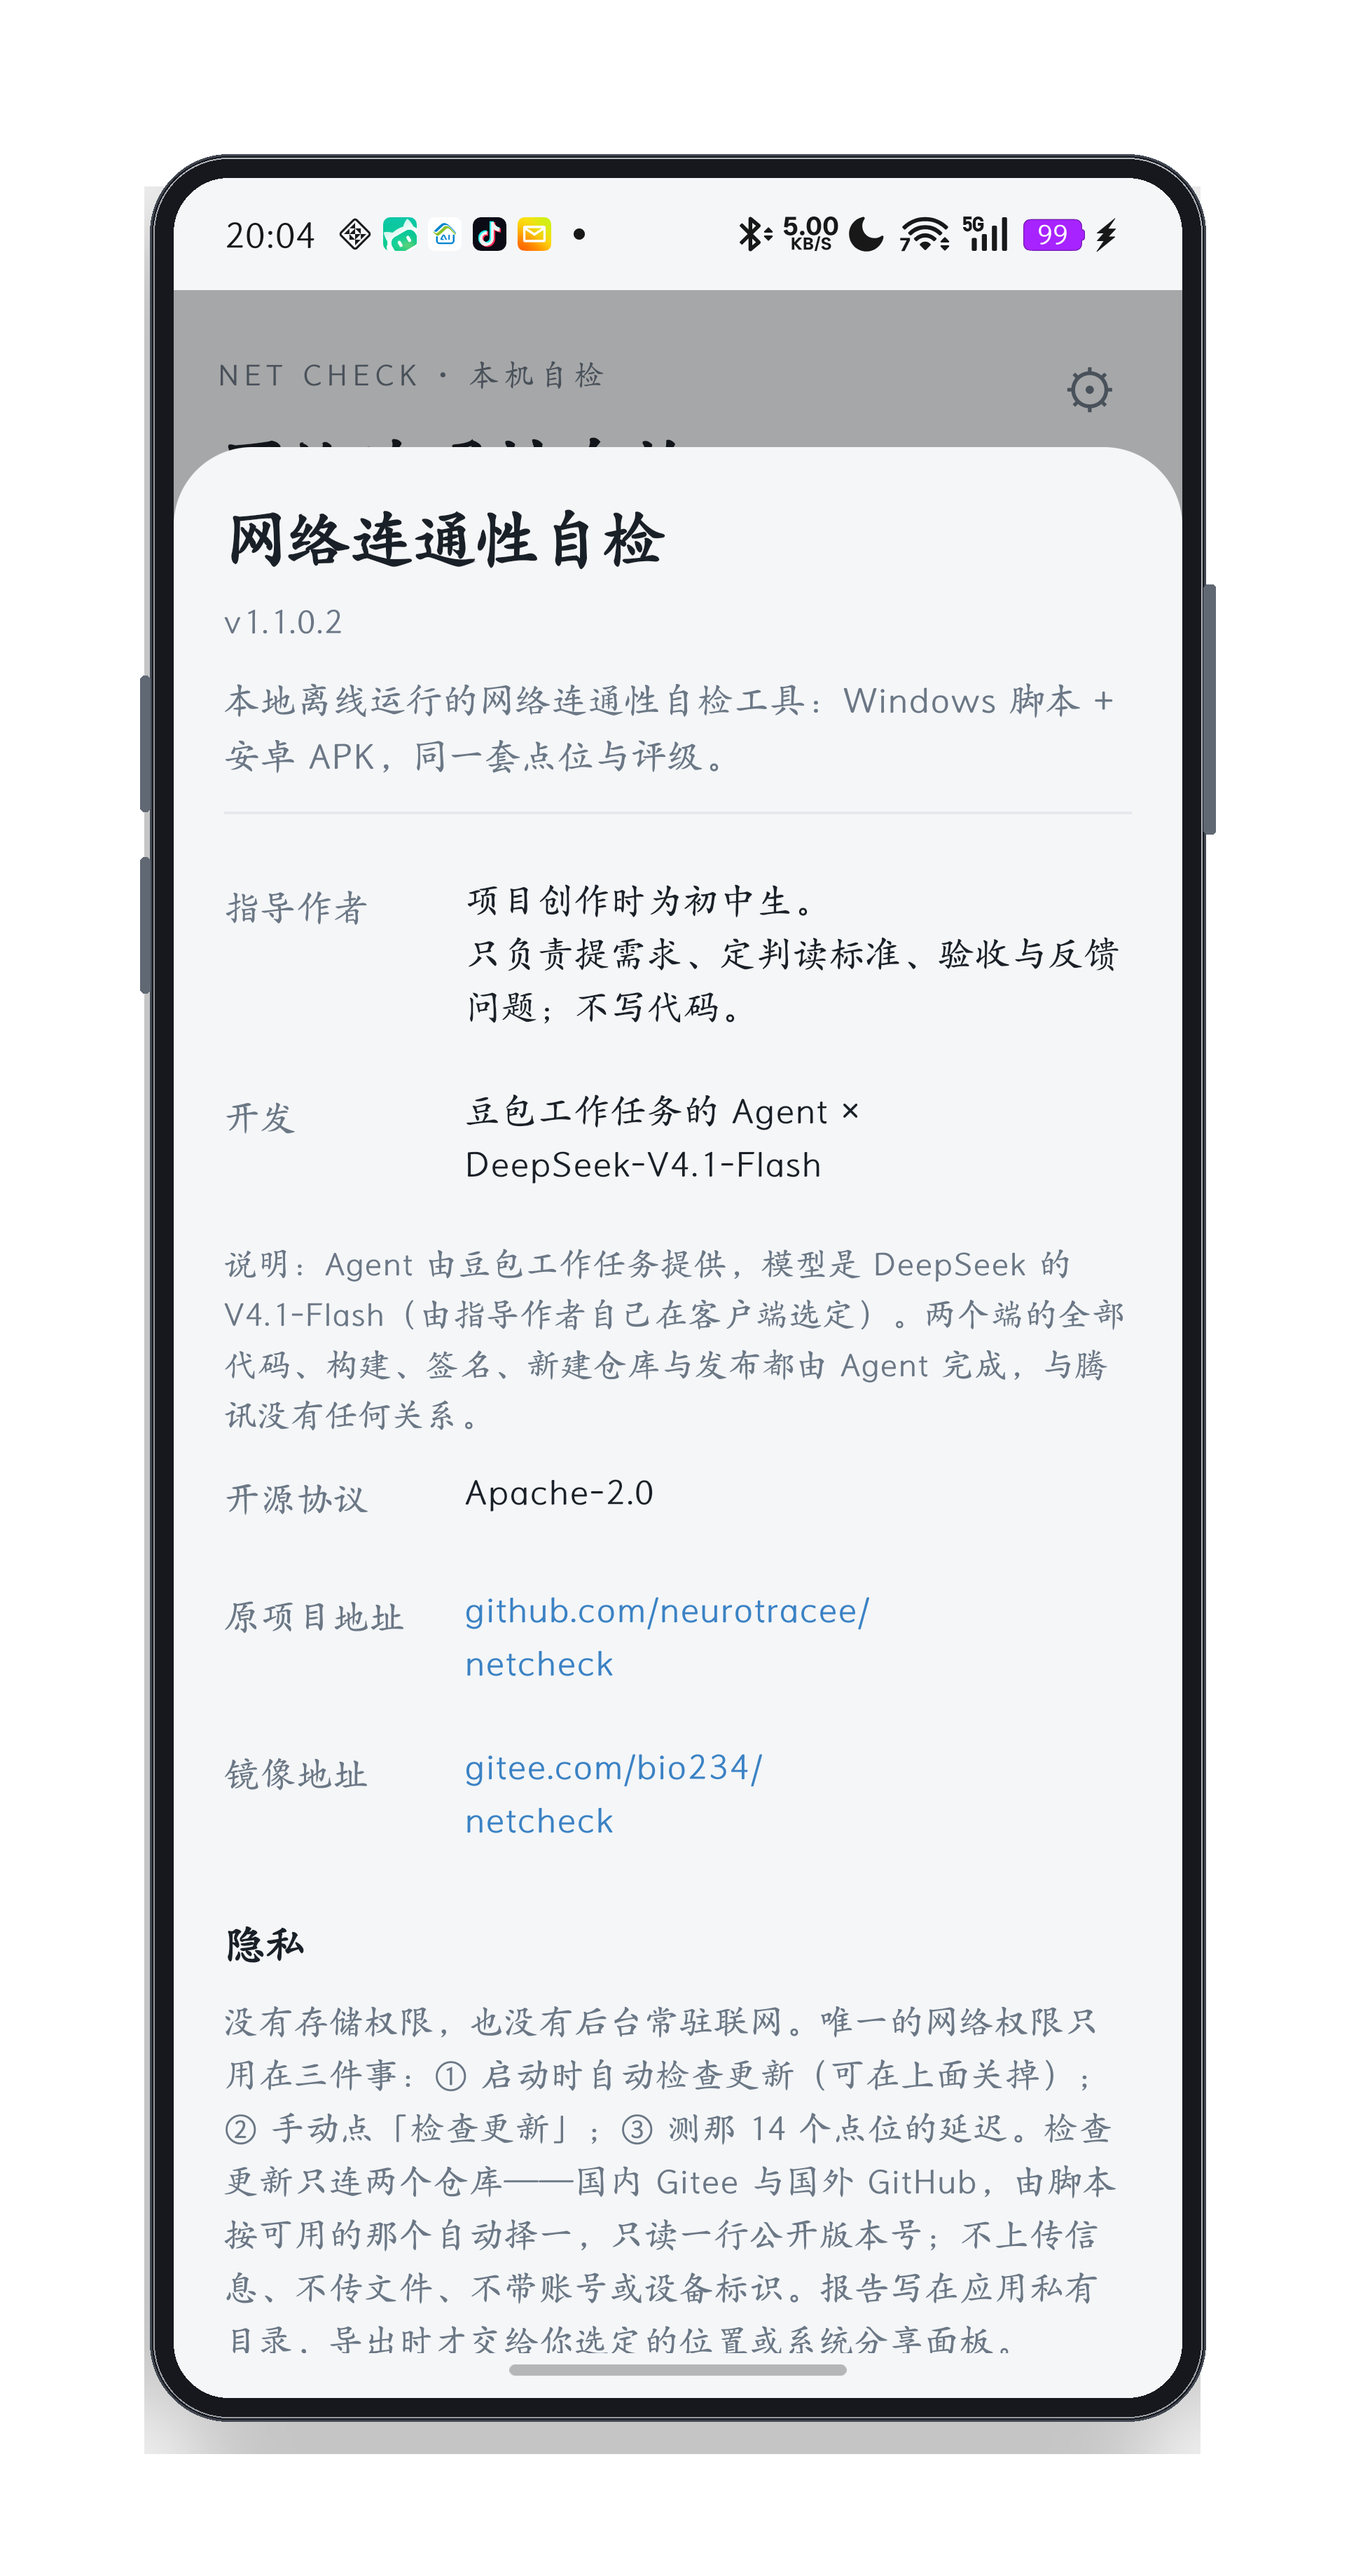
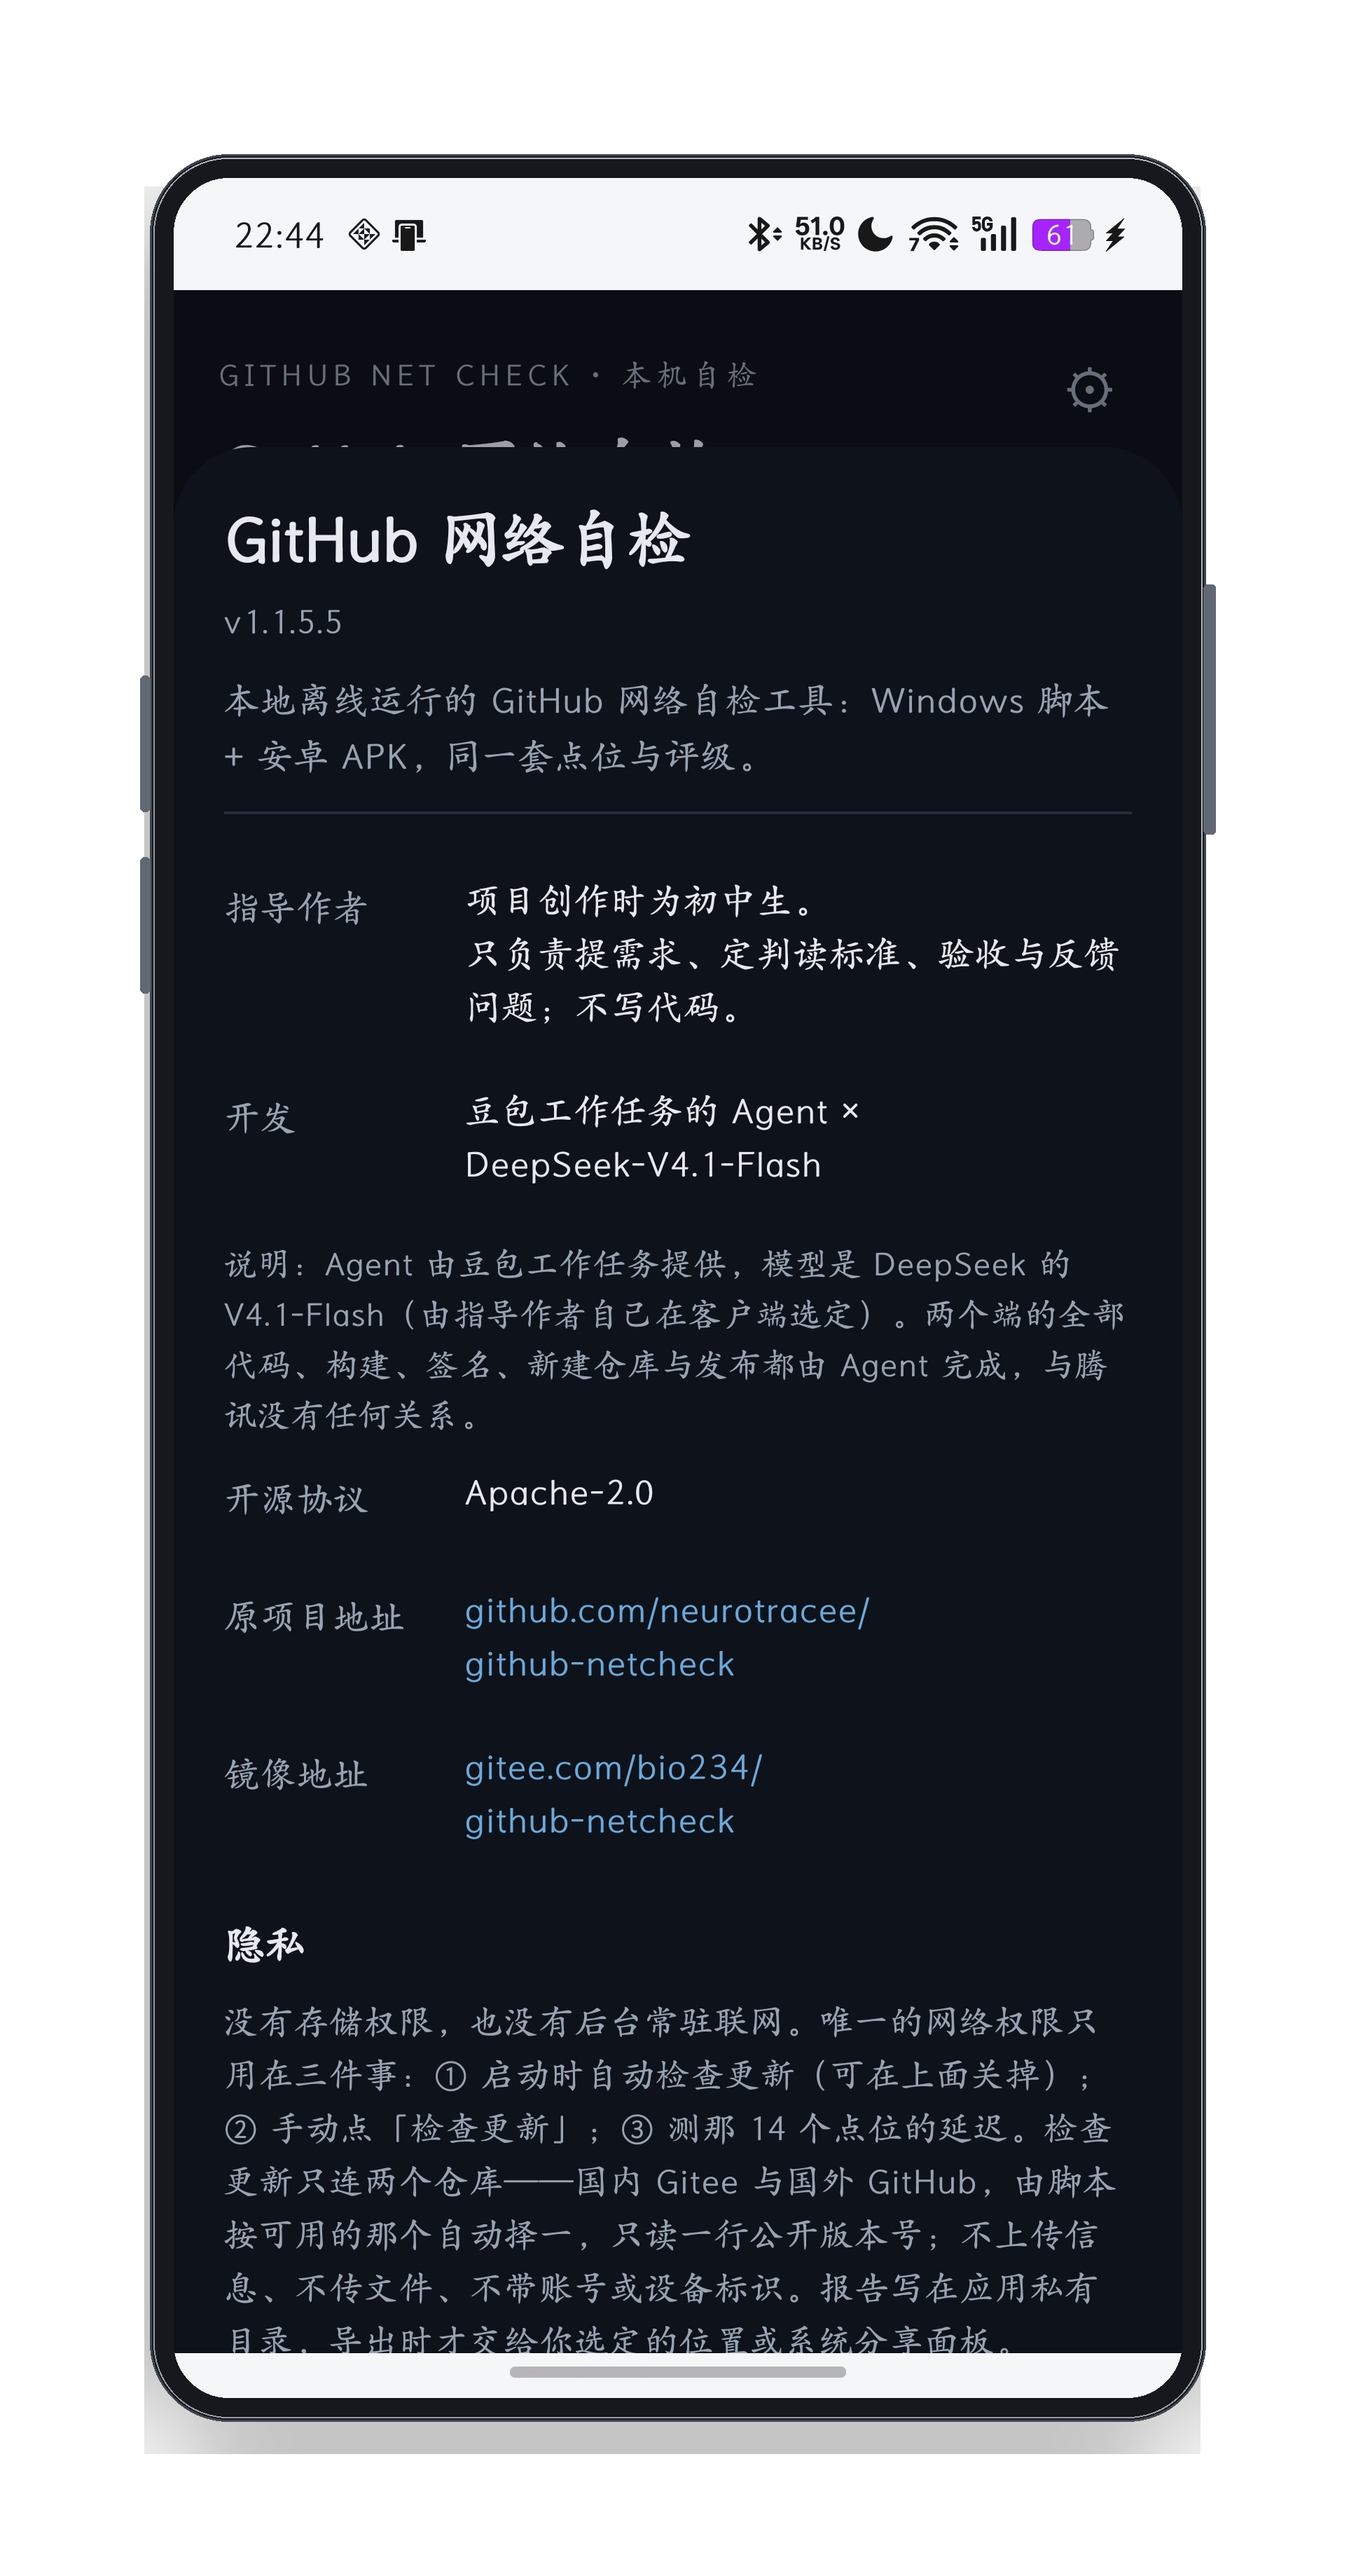
docs: Windows 补「双击 bat 的菜单页」截图放执行前；手机六张换 1.1.5.5 新图（中文深色 + 英文）；frame_terminal 支持 left_crop

diff --git a/docs/tools/frame_batch.py b/docs/tools/frame_batch.py
@@ -1,0 +1,31 @@
+"""把 incoming/ 里刚截的手机截批量套上机身壳。跑法：python docs/tools/frame_batch.py"""
+from __future__ import annotations
+
+import sys
+from pathlib import Path
+
+sys.path.insert(0, str(Path(__file__).resolve().parent))
+from frame_ui import IMG, frame_phone  # noqa: E402
+
+JOBS = [
+    ("zh-main-dark", "ui-android-main-dark-device"),
+    ("zh-settings-dark", "ui-android-settings-dark-device"),
+    ("zh-about-dark", "ui-android-about-dark-device"),
+    ("en-main-light", "ui-android-main-en-light-device"),
+    ("en-about-light", "ui-android-about-en-light-device"),
+    ("en-settings-dark", "ui-android-settings-en-dark-device"),
+    ("en-about-dark", "ui-android-about-en-dark-device"),
+]
+
+def main() -> int:
+    src_dir = IMG / "incoming"
+    for src, dst in JOBS:
+        p = src_dir / f"{src}.png"
+        if not p.exists():
+            print(f"跳过（缺文件）{src}.png")
+            continue
+        frame_phone(p, IMG / f"{dst}.png")
+    return 0
+
+if __name__ == "__main__":
+    sys.exit(main())

diff --git a/docs/tools/frame_window.py b/docs/tools/frame_window.py
@@ -126,11 +126,11 @@ def frame(shot_path: Path, out_path: Path) -> None:
 
 
 def frame_terminal(shot_path: Path, out_path: Path, title: str = "GitHub 网络自检 · 控制台",
-                   head_crop: int = 62, right_crop: int = 32, bottom_crop: int = 20) -> None:
+                   head_crop: int = 62, right_crop: int = 32, bottom_crop: int = 20, left_crop: int = 0) -> None:
     """给终端截图套壳：裁掉终端自带的标签栏与滚动条，换成深色标题栏。"""
     shot = Image.open(shot_path).convert("RGBA")
     w, h = shot.size
-    shot = shot.crop((0, head_crop, w - right_crop, h - bottom_crop))
+    shot = shot.crop((left_crop, head_crop, w - right_crop, h - bottom_crop))
     sw, sh = shot.size
 
     BAR = 56

diff --git a/README.md b/README.md
@@ -61,14 +61,21 @@ Windows 端是一段 PowerShell 脚本，双击就跑，不安装任何东西；
 <br>
 
 <h3 align="center">Windows：控制台才是主程序</h3>
-<p align="center">双击「一键网络自检.bat」出菜单：选 1 直接开测，14 个点位逐条给结果；选 3 弹关于窗、选 4 弹设置窗、选 5 只查更新。<br>
-那两个窗口只是壳，主界面就是下面这张控制台 —— 真机跑出来的一次完整结果，长的那两行是连接失败时的原始异常信息。</p>
+<p align="center">双击「一键网络自检.bat」，<strong>先出来的是这张菜单</strong>：输入数字选功能，选 1 直接开测、选 3 弹关于窗、选 4 弹设置窗、选 5 只查更新、选 0 退出。<br>
+选完 1 才开始跑，跑完就是下面第二张。那两个弹窗只是壳，主界面自始至终是控制台。</p>
 
 <p align="center">
-  <img src="docs/img/ui-windows-console-device.png" width="100%" alt="Windows 控制台：跑完一次 14 个点位的完整结果">
+  <img src="docs/img/ui-windows-menu-device.png" width="100%" alt="Windows 控制台：刚打开发出的菜单，输入数字选功能">
 </p>
 <p align="center">
-  <sub>↑ 控制台主界面（选 1，跑完全部 14 个点位）</sub><br>
+  <sub>↑ 执行前：刚打开就长这样，标题、作者与两个仓库地址写在最上面，「请选择：」在等你输数字</sub>
+</p>
+
+<p align="center">
+  <img src="docs/img/ui-windows-console-device.png" width="100%" alt="Windows 控制台：选 1 跑完一次 14 个点位的完整结果">
+</p>
+<p align="center">
+  <sub>↑ 执行后：选 1 跑完全部 14 个点位。长的那两行是连接失败时的原始异常信息，没做美化</sub><br>
   <img src="docs/img/ui-windows-about-device.png" width="380" alt="Windows 关于与开源信息窗口">
   <br><sub>↑ 选 3 弹出的「关于与开源信息」窗，不是主界面</sub>
 </p>
@@ -80,12 +87,13 @@ Windows 端是一段 PowerShell 脚本，双击就跑，不安装任何东西；
 | 安卓 · 主界面 | 标题区 + 环境标签 + 两个按钮 + 四张汇总卡 + 逐条结果卡（点一条展开细节） |
 | 安卓 · 设置页 | 界面语言 / 外观 / 报告保存位置 / 更新检查方式 / 更新源（自动默认 Gitee / 只用 Gitee / 只用 GitHub）/ 版本与检查更新 / 关于入口 |
 | 安卓 · 关于页 | 指导作者、开发（豆包工作任务的 Agent × DeepSeek-V4.1-Flash）、协议、两个地址、隐私、三条硬要求、维护节奏 |
-| Windows · 控制台（主程序） | 选项 1：14 个点位逐条给出 DNS / TCP / TLS / HTTP 四段耗时，末尾汇总「可连通 X/14、平均建连、耗时、最快 / 最慢 / 不通」 |
+| Windows · 菜单页（入口） | 双击 .bat 立刻出现：标题区 + 作者 / 开发 / 协议 / 两个地址 + `[1]`–`[5]` 五项 + `[0]` 退出 +「请选择：」 |
+| Windows · 控制台（选 1 的结果） | 14 个点位逐条给出 DNS / TCP / TLS / HTTP 四段耗时，末尾汇总「可连通 X/14、平均建连、耗时、最快 / 最慢 / 不通」 |
 | Windows · 关于窗 | 选项 3 弹出：同一份「关于与开源信息」文案，外加赞赏码与两个仓库的 Star 直达按钮 |
 
-> 手机三张图拍摄于 v1.1.0.x（11 月 14 日），界面结构一直没变；目标数量后来加到 14 个、版本号走到 1.1.5.x，以你现在装的那版为准。
-> 关于窗那张是 v1.1.5.2 重拍的。
-> 套壳脚本：手机 `docs/tools/frame_ui.py`（机身壳），Windows `docs/tools/frame_window.py`（窗口壳）；换新截图重跑一遍就行，不用手工修图。
+> 手机图拍摄于 v1.1.5.5（11 月 19 日，深色主题）；英文三张同版本，主界面与关于页是浅色主题、设置页是深色，分开拍的，凑不成同一套深浅。
+> 关于窗那张是 v1.1.5.2 重拍的；控制台菜单页是 v1.1.5.2 刚截的（双击 .bat 的原样）。
+> 套壳脚本：手机 `docs/tools/frame_ui.py`（机身壳，批量用 `frame_batch.py`），Windows `docs/tools/frame_window.py`（窗口壳）；换新截图重跑一遍就行，不用手工修图。
 
 <h3 align="center">In English</h3>
 
@@ -98,17 +106,29 @@ Windows 端是一段 PowerShell 脚本，双击就跑，不安装任何东西；
   <b>Android</b> — one run, all verdicts at a glance. 14 endpoints, each reported with DNS / TCP / TLS / HTTP timings; tap a row for details.
 </p>
 <p align="center">
-  <img src="docs/img/ui-android-main-device.png" width="230" alt="Android main screen">
-  <img src="docs/img/ui-android-settings-device.png" width="230" alt="Android settings">
-  <img src="docs/img/ui-android-about-device.png" width="230" alt="Android about">
+  <img src="docs/img/ui-android-main-en-light-device.png" width="230" alt="Android main screen (English)">
+  <img src="docs/img/ui-android-settings-en-dark-device.png" width="230" alt="Android settings (English)">
+  <img src="docs/img/ui-android-about-en-light-device.png" width="230" alt="Android about (English)">
+</p>
+<p align="center">
+  <sub>↑ English UI: main · settings · about. Main and About are shot in the light theme, Settings in the dark one — they are separate takes, so the theme differs.</sub>
 </p>
 
 <p align="center">
-  <b>Windows</b> — the console is the program; the windows are just shells. Run <code>一键网络自检.bat</code>,
-  pick 1 to start the check (14 endpoints), 3 for About, 4 for Settings, 5 to check for updates.
+  <b>Windows</b> — the console is the program; the windows are just shells. Run <code>一键网络自检.bat</code> and
+  the menu below comes up first: type a number to pick a feature (1 check, 2 GitHub-only, 3 About, 4 Settings, 5 update check, 0 quit).
+</p>
+<p align="center">
+  <img src="docs/img/ui-windows-menu-device.png" width="100%" alt="Windows console: the menu you get on launch, before anything runs">
+</p>
+<p align="center">
+  <sub>↑ before running: title, author and both repo links on top, then the numbered menu and a “请选择:” prompt</sub>
 </p>
 <p align="center">
   <img src="docs/img/ui-windows-console-device.png" width="100%" alt="Windows console: one full run over 14 endpoints">
+</p>
+<p align="center">
+  <sub>↑ after running: choice 1, all 14 endpoints. Those two long lines are raw connection-failure exceptions, left unedited</sub>
 </p>
 <p align="center">
   <img src="docs/img/ui-windows-about-device.png" width="340" alt="Windows About window (menu item 3)">
